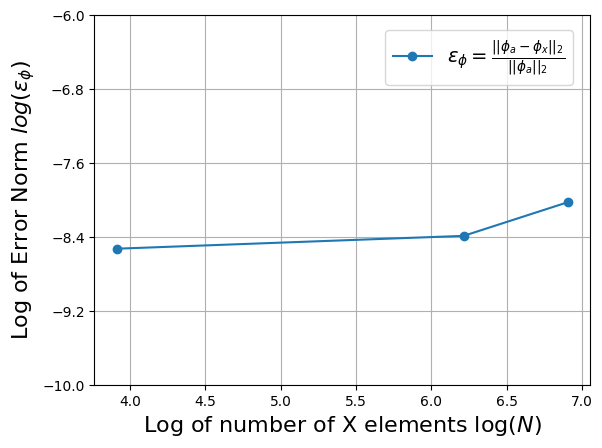
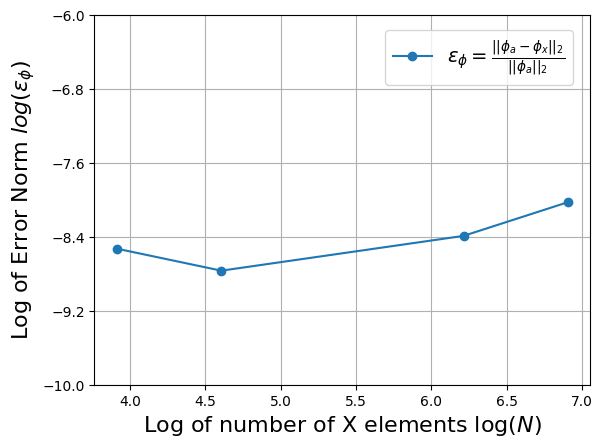
100 finished. just waiting on 250 to get all results. rerunning 1000 too to take out single case logic, results for 1000 shouldnt change though

Changed region(s): [[0.2093, 0.5, 0.7475, 0.5938], [0.3289, 0.5938, 0.4186, 0.625]]

diff --git a/simulations/no_ss_no_mesh_template/restarts/re-viz/visualize_results_flux_only.py b/simulations/no_ss_no_mesh_template/restarts/re-viz/visualize_results_flux_only.py
@@ -6,7 +6,7 @@ import pandas as pd
 
 # list mesh element sizes that will be used to iterate through all cases
 # n_elems = [50,100,250,500,1000]
-n_elems = [50,500,1000]
+n_elems = [50,100,500,1000]
 log_N = np.log(n_elems)
 L = 106.47 # equilibrium length from paper
 P = 1.0e22 # eV/s
